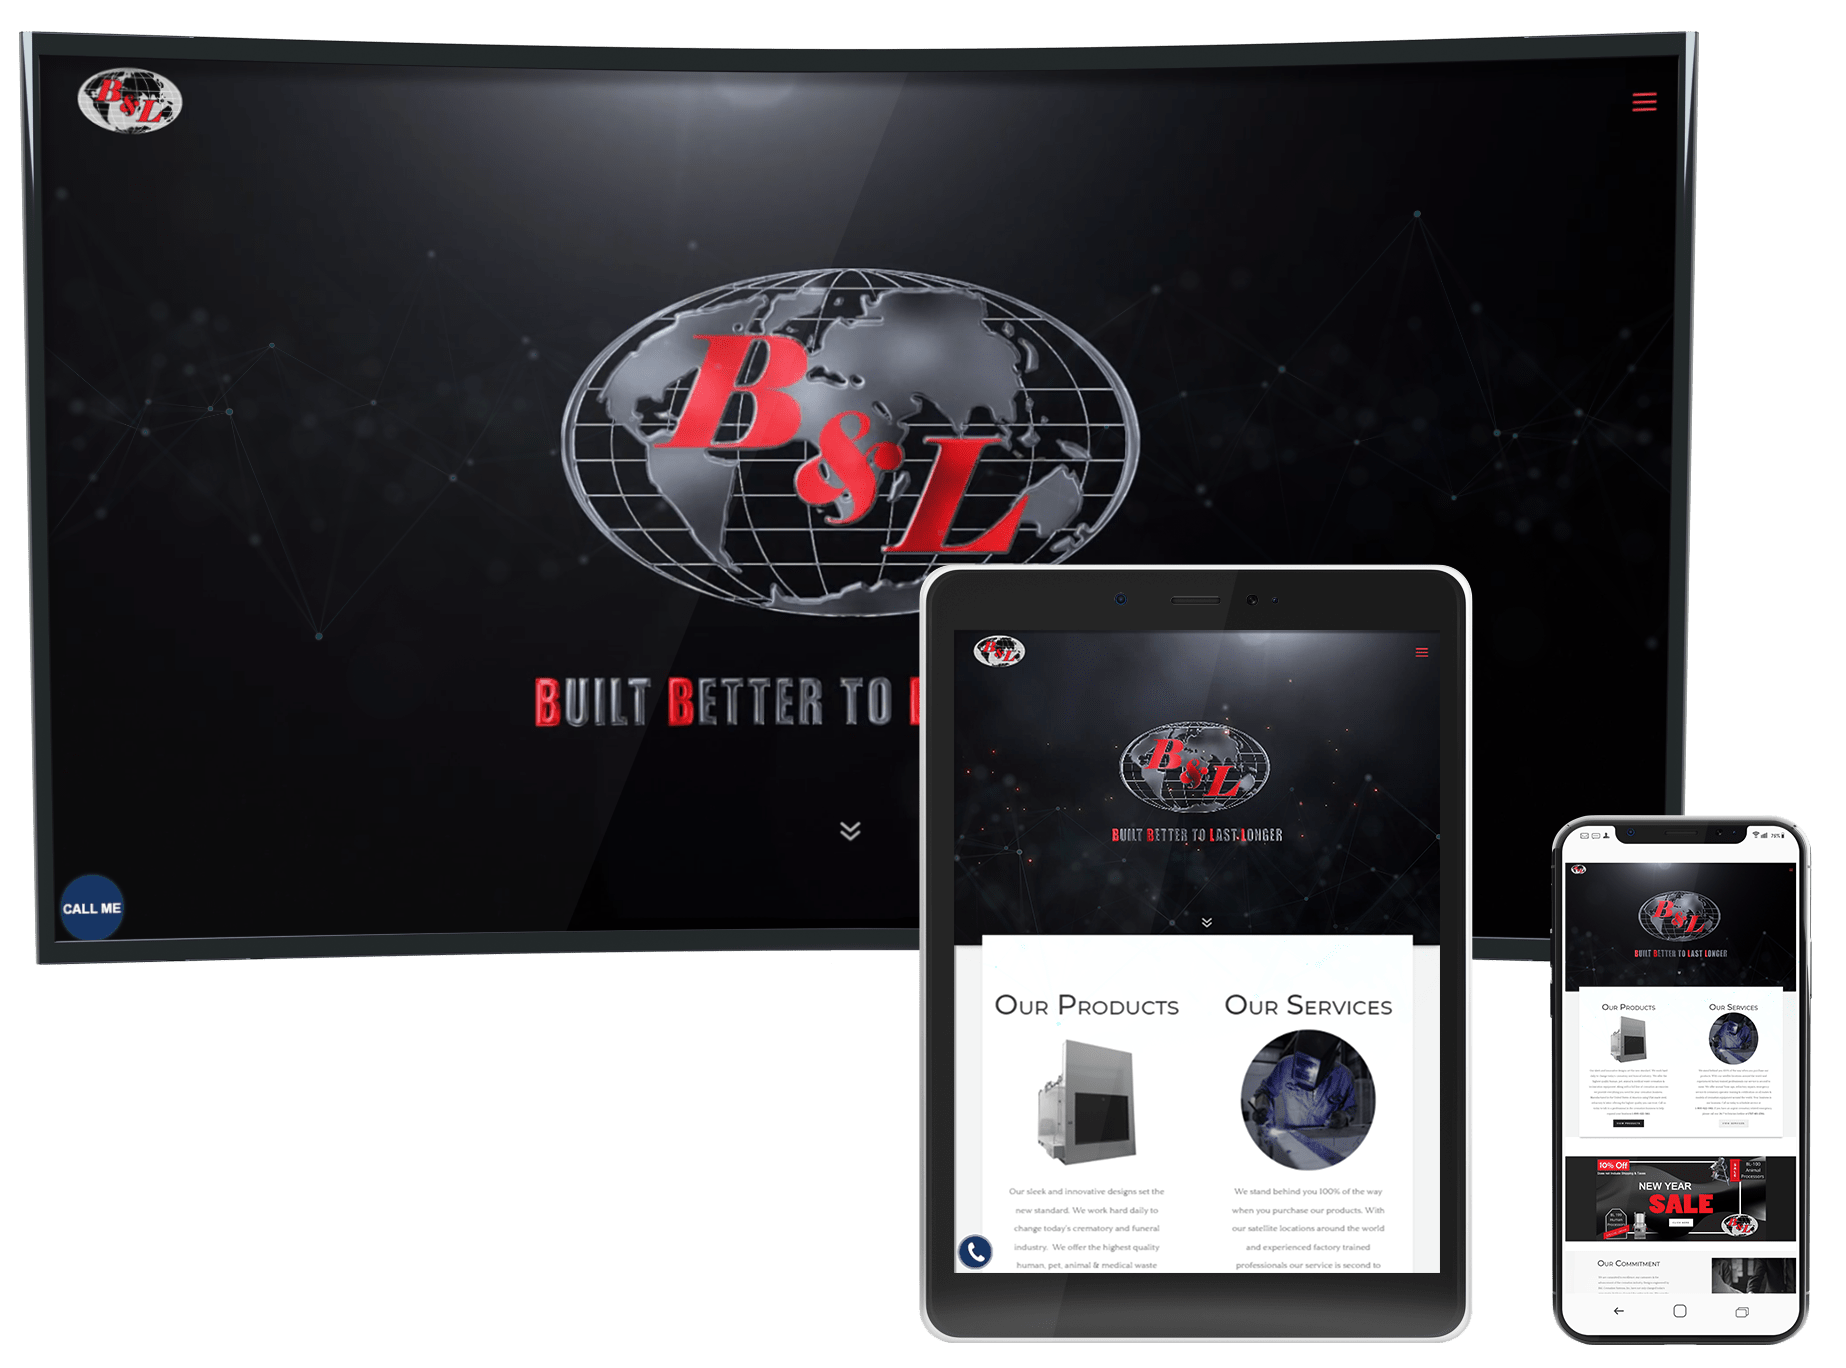
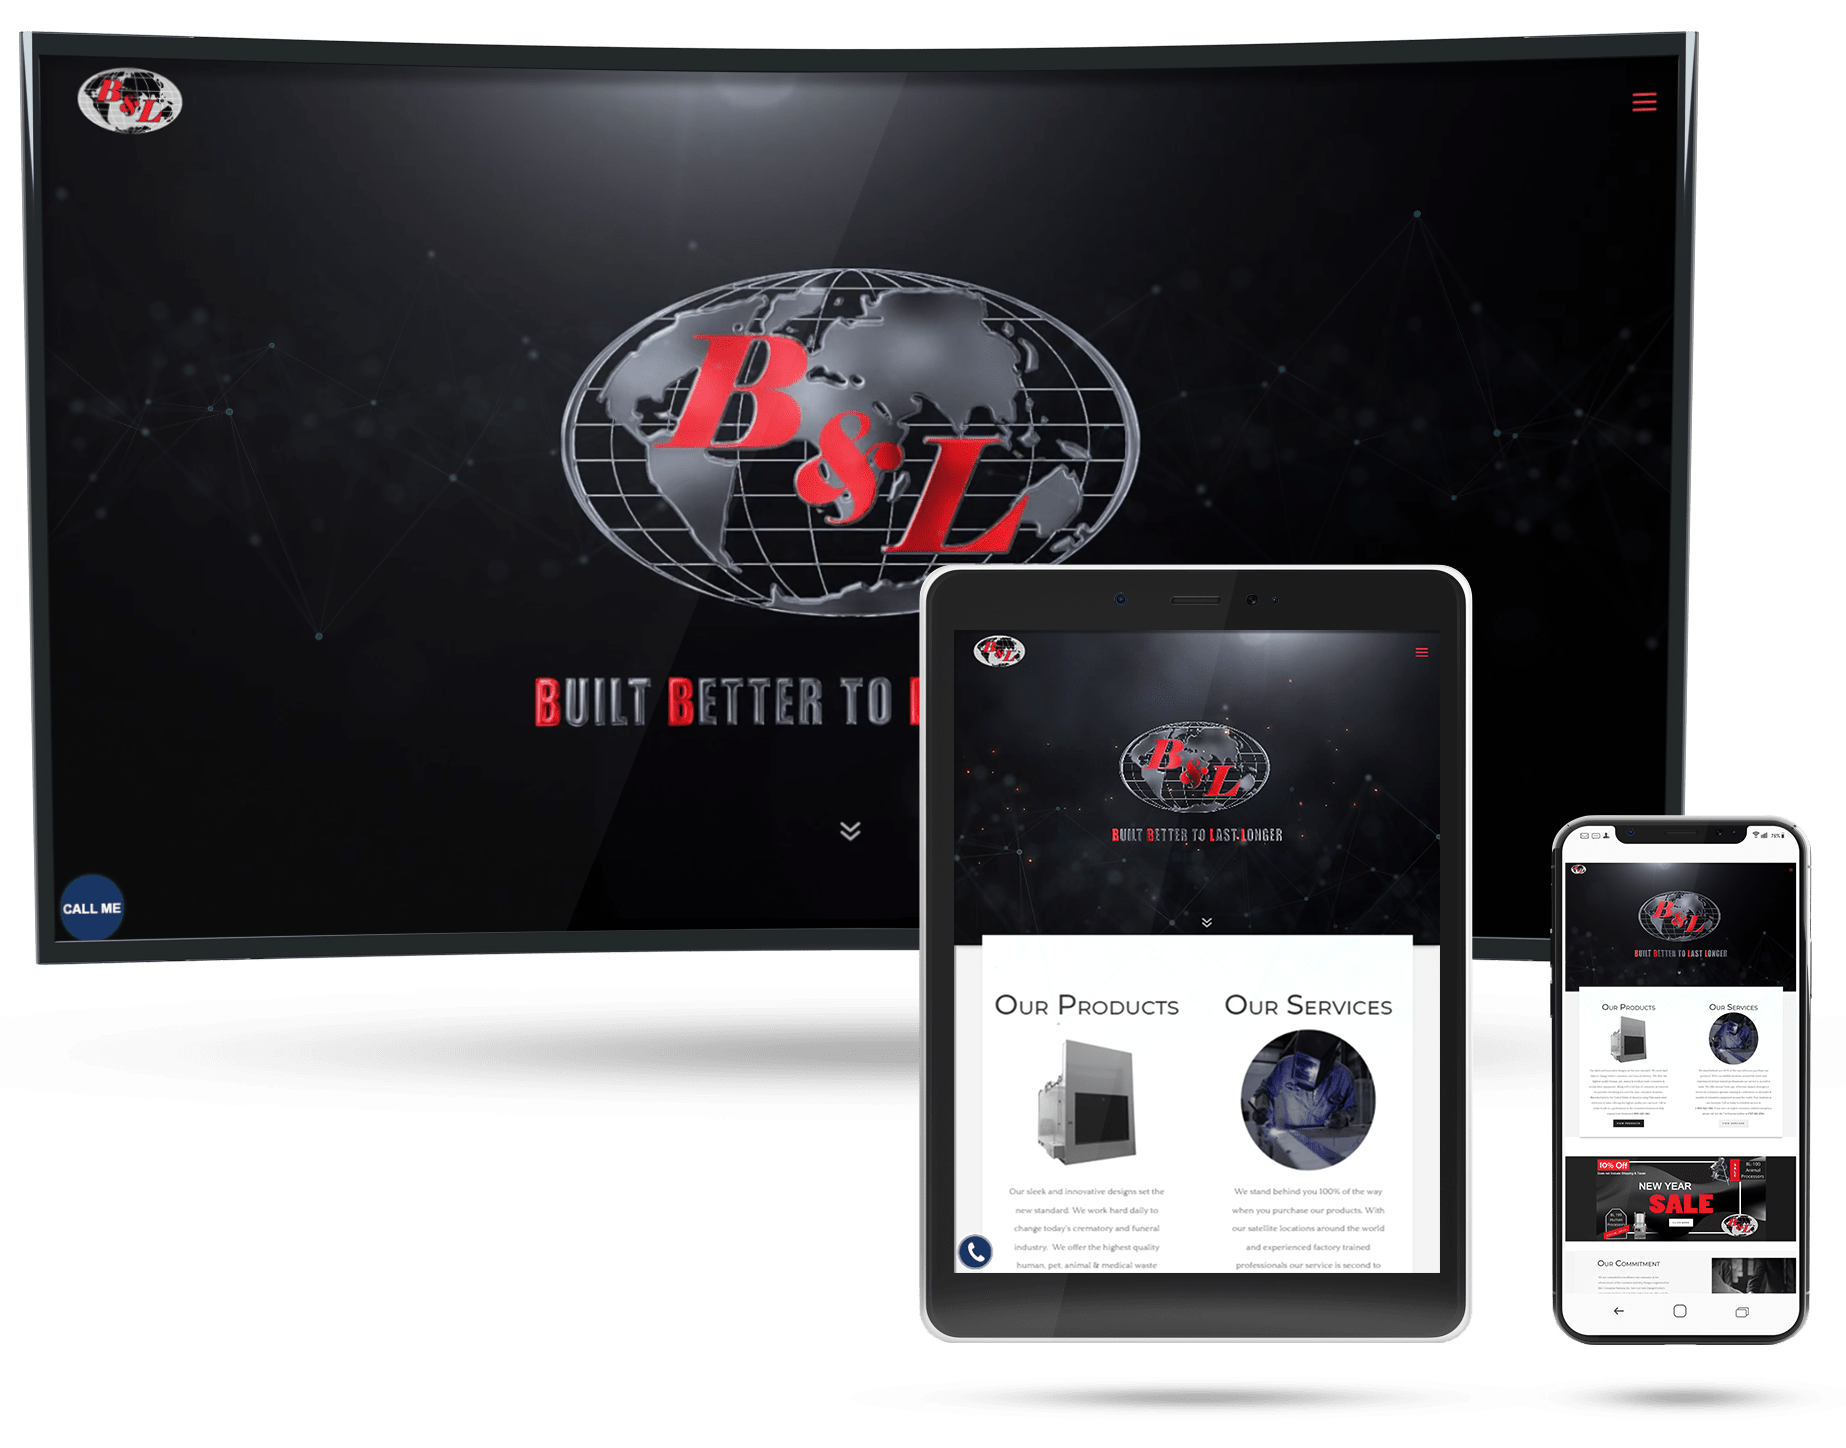
3 mockups created, and shadows added

diff --git a/projects.html b/projects.html
@@ -61,14 +61,14 @@
           </div>
         </div>
         <div class="row work_2">
-          <div class="lightwalk"> <img src="assets/img/b&lmockup-min.png" alt="bl" style="width:100%;"></div>
+          <div class="lightwalk"> <img src="assets/img/lightmockup-min.png" alt="bl" style="width:100%;"></div>
           <div class="lwtext">
             <h3 class="lw_title">B&L Cremation Systems</h3>
             <p class="lw_info">Information.................</p>
           </div>
         </div>
         <div class="row work_3">
-          <div class="design"> <img src="assets/img/b&lmockup-min.png" alt="bl" style="width:100%;"></div>
+          <div class="design"> <img src="assets/img/designmockup-min.png" alt="bl" style="width:100%;"></div>
           <div class="designtext">
             <h3 class="design_title">B&L Cremation Systems</h3>
             <p class="design_info">Information.................</p>
